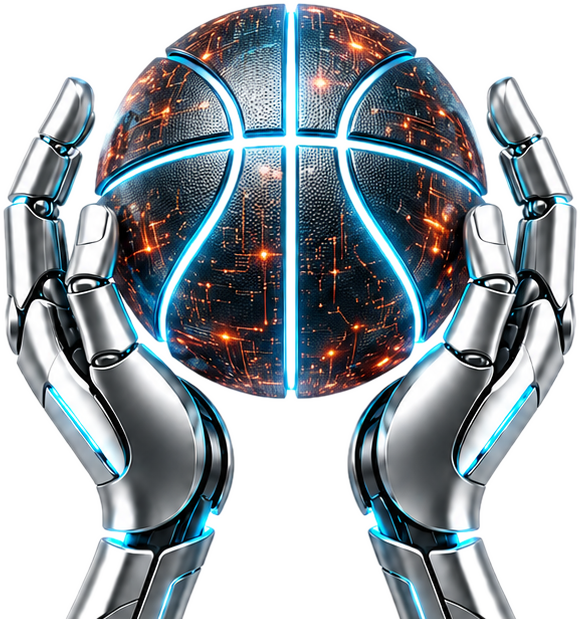
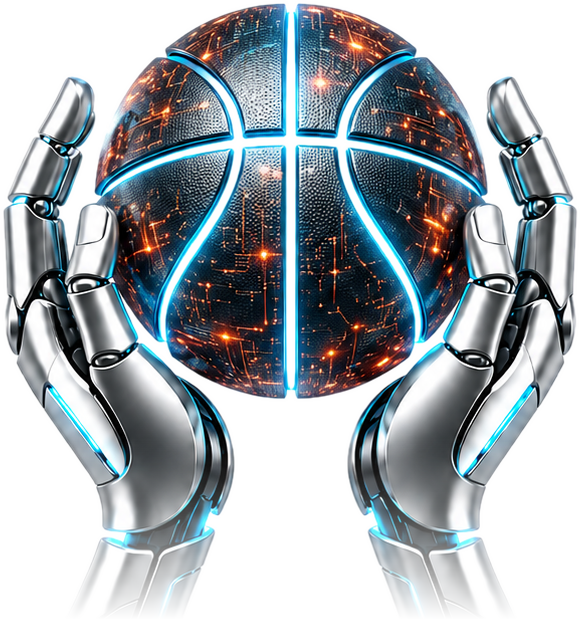
Adjust hero watermark placement

Changed region(s): [[0.0931, 0.7674, 0.4034, 1.0], [0.5897, 0.7674, 0.9, 1.0]]

diff --git a/public/atlas_theme.css b/public/atlas_theme.css
@@ -456,7 +456,7 @@ td,
 
 .hero-wrap::after {
   right: clamp(8px, 4vw, 64px);
-  top: clamp(82px, 13vh, 126px);
+  top: clamp(122px, 19vh, 174px);
   width: min(34vw, 470px);
   background: url("/atlas_ai_ball_hands_energy.png") center / contain no-repeat !important;
   opacity: .28;
@@ -501,8 +501,9 @@ td,
 
 .hero-wrap::before {
   left: clamp(42px, 5vw, 82px);
-  top: clamp(112px, 18vh, 186px);
+  top: clamp(148px, 24vh, 230px);
   width: min(46vw, 580px);
+  opacity: .86;
 }
 
 .page-header::before {

diff --git a/public/index.html b/public/index.html
@@ -326,7 +326,7 @@
 
     .no-data-msg { grid-column: 1/-1; text-align: center; padding: 60px; font-size: 12px; color: var(--t2); letter-spacing: .08em; text-transform: uppercase; }
   </style>
-  <link rel="stylesheet" href="/atlas_theme.css?v=20260514t"/>
+  <link rel="stylesheet" href="/atlas_theme.css?v=20260514u"/>
 </head>
 <body>
 